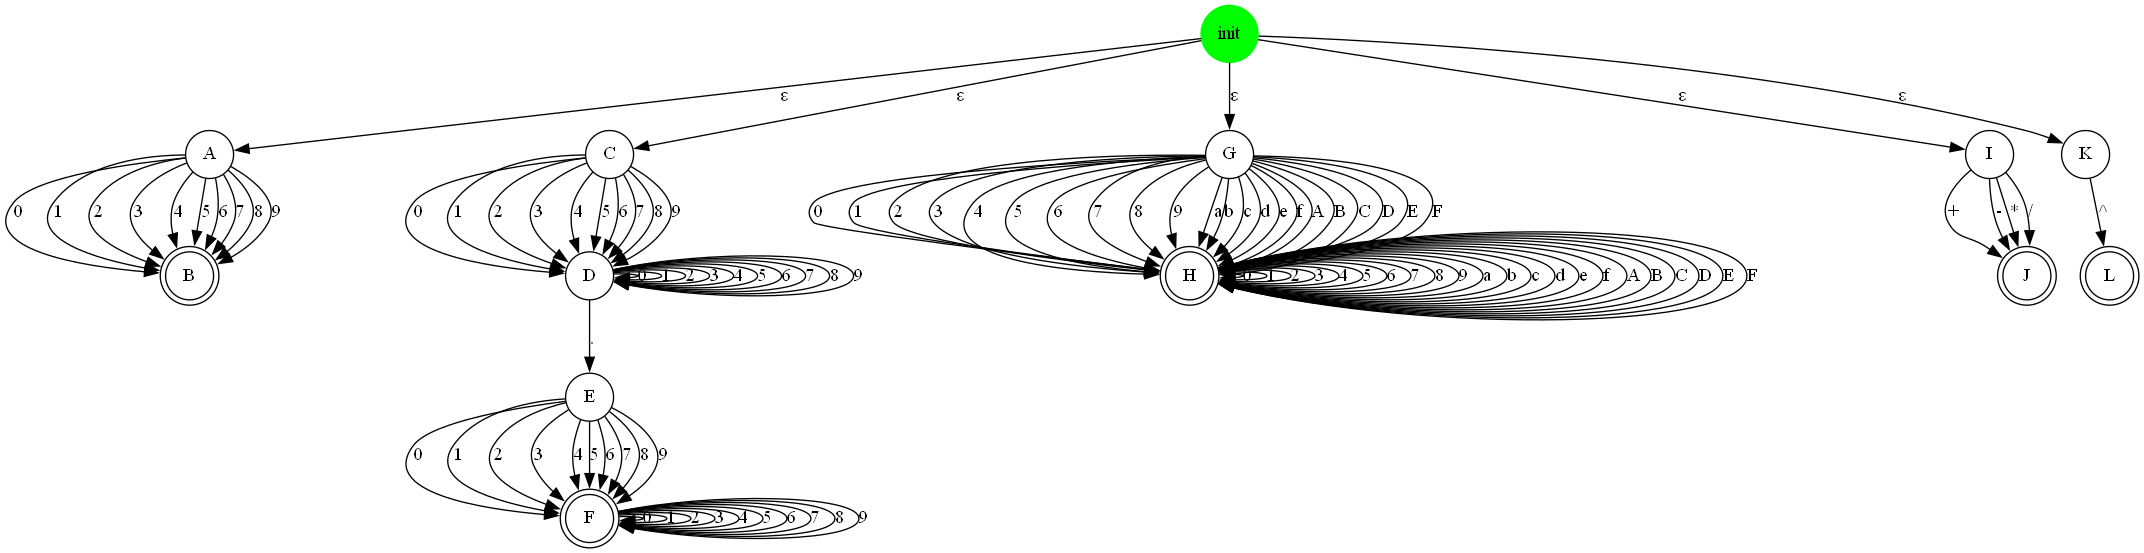
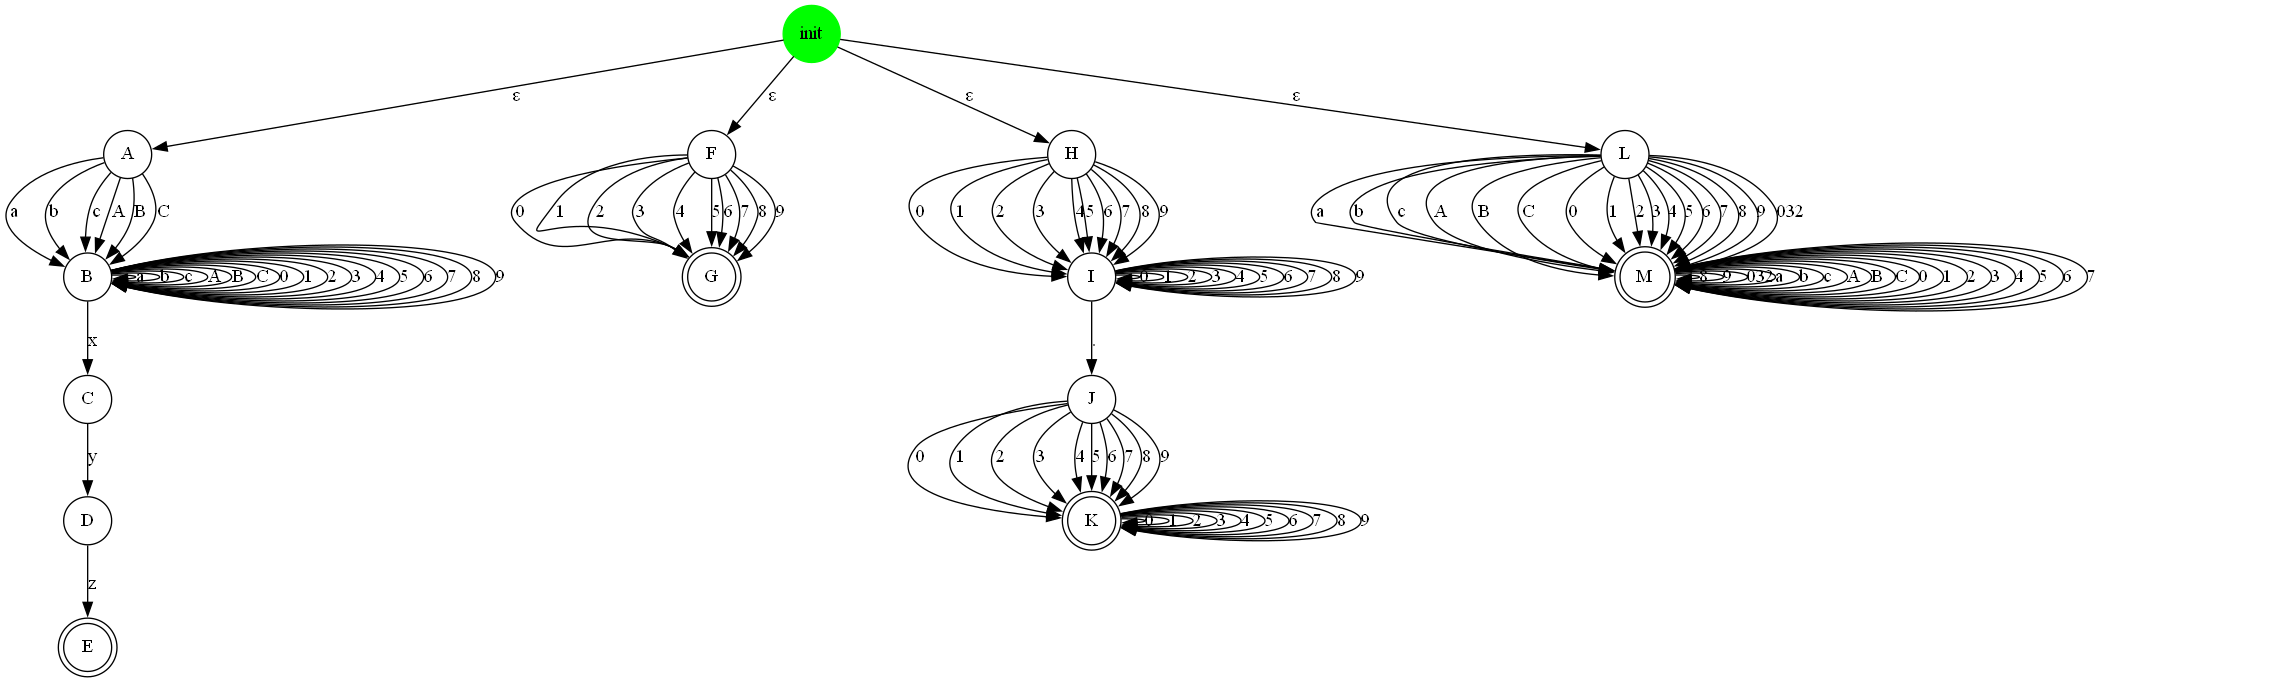
casi

diff --git a/generated.py b/generated.py
@@ -5,17 +5,13 @@ from Error import Error
 import sys
 
 mega = [StateAFD(name='init',transitions={'ε': 'A'},accepting=False,start=True, value=None),StateAFD(name='A',transitions={'a': 'B', 'b': 'B', 'c': 'B', 'A': 'B', 'B': 'B', 'C': 'B'},accepting=False,start=False, value=None),StateAFD(name='B',transitions={'a': 'B', 'b': 'B', 'c': 'B', 'A': 'B', 'B': 'B', 'C': 'B', '0': 'B', '1': 'B', '2': 'B', '3': 'B', '4': 'B', '5': 'B', '6': 'B', '7': 'B', '8': 'B', '9': 'B', 'x': 'C'},accepting=False,start=False, value=None),StateAFD(name='C',transitions={'y': 'D'},accepting=False,start=False, value=None),StateAFD(name='D',transitions={'z': 'E'},accepting=False,start=False, value=None),StateAFD(name='E',transitions={},accepting=True,start=False, value=''),StateAFD(name='init',transitions={'ε': 'F'},accepting=False,start=True, value=None),StateAFD(name='F',transitions={'0': 'G', '1': 'G', '2': 'G', '3': 'G', '4': 'G', '5': 'G', '6': 'G', '7': 'G', '8': 'G', '9': 'G'},accepting=False,start=False, value=None),StateAFD(name='G',transitions={},accepting=True,start=False, value='print("Entero\\n")'),StateAFD(name='init',transitions={'ε': 'H'},accepting=False,start=True, value=None),StateAFD(name='H',transitions={'0': 'I', '1': 'I', '2': 'I', '3': 'I', '4': 'I', '5': 'I', '6': 'I', '7': 'I', '8': 'I', '9': 'I'},accepting=False,start=False, value=None),StateAFD(name='I',transitions={'0': 'I', '1': 'I', '2': 'I', '3': 'I', '4': 'I', '5': 'I', '6': 'I', '7': 'I', '8': 'I', '9': 'I', '.': 'J'},accepting=False,start=False, value=None),StateAFD(name='J',transitions={'0': 'K', '1': 'K', '2': 'K', '3': 'K', '4': 'K', '5': 'K', '6': 'K', '7': 'K', '8': 'K', '9': 'K'},accepting=False,start=False, value=None),StateAFD(name='K',transitions={'0': 'K', '1': 'K', '2': 'K', '3': 'K', '4': 'K', '5': 'K', '6': 'K', '7': 'K', '8': 'K', '9': 'K'},accepting=True,start=False, value='print("Aritmetico\\n")'),StateAFD(name='init',transitions={'ε': 'L'},accepting=False,start=True, value=None),StateAFD(name='L',transitions={'a': 'M', 'b': 'M', 'c': 'M', 'A': 'M', 'B': 'M', 'C': 'M', '0': 'M', '1': 'M', '2': 'M', '3': 'M', '4': 'M', '5': 'M', '6': 'M', '7': 'M', '8': 'M', '9': 'M', ' ': 'M'},accepting=False,start=False, value=None),StateAFD(name='M',transitions={'8': 'M', '9': 'M', ' ': 'M', 'a': 'M', 'b': 'M', 'c': 'M', 'A': 'M', 'B': 'M', 'C': 'M', '0': 'M', '1': 'M', '2': 'M', '3': 'M', '4': 'M', '5': 'M', '6': 'M', '7': 'M'},accepting=True,start=False, value='print("Cadena\\n")')]
-errors = set([Error(line=17, error='Error: Token no definido: palabra_reservada_if'),Error(line=18, error='Error: Token no definido: palabra_reservada_for'),Error(line=19, error='Error: Token no definido: palabra_reservada_while')])
+errors = set([Error(line=18, error='Error: Token no definido: palabra_reservada_for'),Error(line=19, error='Error: Token no definido: palabra_reservada_while'),Error(line=17, error='Error: Token no definido: palabra_reservada_if')])
 
-# if len(sys.argv) < 2:
-# 	print('Por favor ingrese el archivo plano')
-# 	sys.exit(1)
-# txt_file = sys.argv[1]
+if len(sys.argv) < 2:
+	print('Por favor ingrese el archivo plano')
+	sys.exit(1)
+txt_file = sys.argv[1]
 
-# lex = LexEval(txt_file)
-# results = lex.evaluate(mega, errors)
-# lex.print_tokens(results)
-
-from Visualizer import Visualizer
-v = Visualizer()
-v.draw_mega_afd(mega)
+lex = LexEval(txt_file)
+results = lex.evaluate(mega, errors)
+lex.print_tokens(results)

diff --git a/sara_compis1_tools/lexGen.py b/sara_compis1_tools/lexGen.py
@@ -34,7 +34,7 @@ class Lexer:
         wo_spaces = []
         # Si hay comillas dobles reemplazar por simples
         for i in range(len(lines)):
-            lines[i] = lines[i].replace('"', "'")
+            lines[i] = lines[i].replace('"', "ω")
 
         for line in lines:
             new_line = []
@@ -213,7 +213,7 @@ class Lexer:
             new_regex = ''
             i = 0
 
-            if token.regex[0] == "'" and token.regex[-1] == "'":
+            if token.regex[0] == "'" and token.regex[-1] == "'" and token.regex.count("'") == 2:
                 unquoted_token = token.regex[1:-1]
                 token.regex = f'({unquoted_token})'
                 continue
@@ -272,7 +272,7 @@ class Lexer:
                 else:
                     check = ""
                     j = i
-                    while token.regex[j] not in ['+', '*', '?', '(', ')']:
+                    while token.regex[j] not in ['+', '*', '?', '(', ')', '[', ']']:
                         check += token.regex[j]
                         j += 1
                     keys = [tk.name for tk in tokens]
@@ -429,8 +429,8 @@ if __name__ == '__main__':
     #     sys.exit(1)
 
     # yal_file = sys.argv[1]
-    # yal_file = "p1.yal"
-    yal_file = "con1.yal"
+    yal_file = "con3.yal"
+    # yal_file = "sara_compis1_tools/con3.yal"
     lexer = Lexer(yal_file)
     
     lexer.read()

diff --git a/sara_compis1_tools/Format.py b/sara_compis1_tools/Format.py
@@ -117,14 +117,14 @@ class Format:
                     elif len(val) == 1:
                         val = '00' + val
                     i += 2
-                elif val.isalnum() or val in ["#", '_', '^']:
+                elif val.isalnum() or val in ["#", '_', '^', 'ω']:
                     val = str(ord(val))
                     if len(val) == 2:
                         val = '0' + val
                     elif len(val) == 1:
                         val = '00' + val
 
-            elif regexx[i].isalnum() or regexx[i] in ['#', '_', '^']:
+            elif regexx[i].isalnum() or regexx[i] in ['#', '_', '^', 'ω']:
                 val = str(ord(val)) 
                 if len(val) == 2:
                     val = '0' + val
